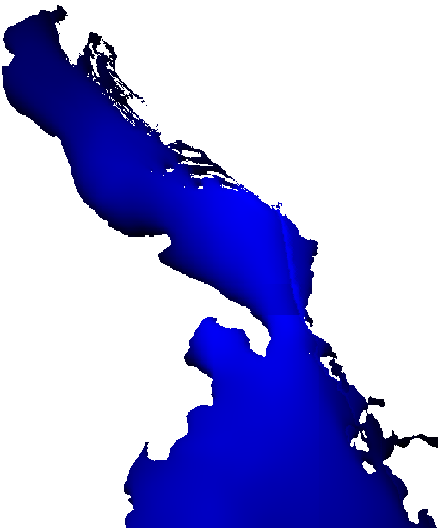
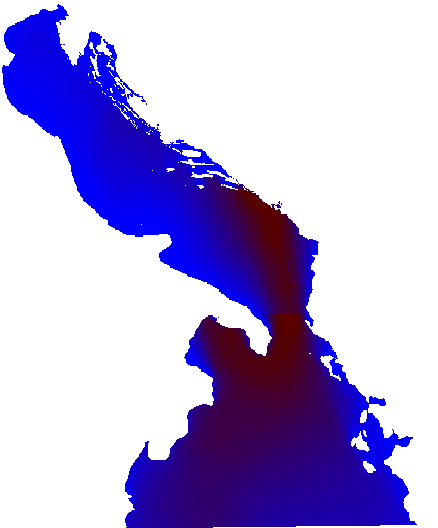
test background

diff --git a/istorm/app/components/Map/WindGLLayer.js b/istorm/app/components/Map/WindGLLayer.js
@@ -73,7 +73,7 @@ class WindLayer {
   calcNumParticles(width, height) {
     // console.log('calcNumParticles')
     return Math.min(Math.floor(width / 20 * height / 20),
-      1200
+      1500
     );
   }
 
@@ -123,37 +123,40 @@ class WindGLLayer extends BaseControl {
       this._canvas = canvas;
       this._ctx = canvas.getContext('webgl', {antialiasing: false});
     }
-      // map.addLayer({
-      //   'id': 'bgwaves',
-      //   'type': 'raster',
-      //   'source': {
-      //     type: 'image',
-      //     url: blu,
-      //     coordinates: [
-      //       [
-      //         12.21,
-      //         45.85
-      //       ],
-      //       [
-      //         22.37,
-      //         45.85
-      //       ],
-      //       [
-      //         22.37,
-      //         36.67,
-      //       ],
-      //       [
-      //         12.21,
-      //         36.67,
-      //       ]
-      //     ]
-      //   },
-      //   "paint": {
-      //       "raster-opacity": 0.5,
-      //       'raster-hue-rotate': 0,
-      //       "raster-resampling": "nearest"
-      //   }
-      // });
+    const bgLayer = {
+        'id': 'bgwaves',
+        'type': 'raster',
+        'source': {
+          type: 'image',
+          url: blu,
+          coordinates: [
+            [
+              12.21,
+              45.85
+            ],
+            [
+              22.37,
+              45.85
+            ],
+            [
+              22.37,
+              36.67,
+            ],
+            [
+              12.21,
+              36.67,
+            ]
+          ]
+        },
+        "paint": {
+            // "raster-opacity": 0.5,
+            "raster-opacity": 0.8,
+            // 'raster-hue-rotate': 0,
+            'raster-hue-rotate': 0.2,
+            // "raster-resampling": "nearest"
+        }
+      }
+      map.addLayer(bgLayer);
       if (this._ctx && this._ctx instanceof WebGLRenderingContext) {
         map.addLayer(new WindLayer(layer.id, this._ctx, layerInfo.wave_image, layerInfo.wave_metadata));
       } else {

diff --git a/openistorm/layers/utils.py b/openistorm/layers/utils.py
@@ -14,6 +14,12 @@ from dateutil import parser
 from django.conf import settings
 from .models import ImageLayer
 
+# import numpy as np
+# from numpy import array
+# import matplotlib.pyplot as plt
+# import random
+# # matplotlib-2.2.4
+
 
 class NCToImg:
 
@@ -183,10 +189,10 @@ class NCToImg:
                 os.system("rm " + tif2filename)
                 os.system("chmod -R 777 " + settings.LAYERDATA_ROOT)
 
+    def gaussian(self, x, a, b, c, d=0):
+        return a * math.exp(-(x - b) ** 2 / (2 * c ** 2)) + d
+
     def generate_image_and_meta_from_json(self, input_file, output_name):
-        # print(output_name)
-        # input_file = self.input_file
-        # output_name = self.output_name
 
         with open(input_file) as json_file:
             data = json.load(json_file)
@@ -204,24 +210,57 @@ class NCToImg:
         width, height = u['header']['nx'], u['header']['ny']
 
         pngData = []
+        pngDataBackground = []
         for y in range(0, height):
             for x in range(0, width):
                 k = (y * width) + x
                 if u['data'][k] is not None and v['data'][k] is not None:
-                    pngData.append((
+                    p = (
                         int(255 * (u['data'][k] - u['min']) / (u['max'] - u['min'])),
                         int(255 * (v['data'][k] - v['min']) / (v['max'] - v['min'])),
                         0,
                         255,
-                    ))
+                    )
+                    pngData.append(p)
+
+                    p = (
+                        int( 255 * 0.39 * (v['data'][k]**2 - v['min']**2) / (v['max']**2 - v['min']**2) ),
+                        0,
+                        255 - int( 255 * 1.2 * (v['data'][k]**2 - v['min']**2) / (v['max']**2 - v['min']**2) ),
+                        255,
+                    )
+                    pngDataBackground.append(p)
                 else:
                     pngData.append((255, 255, 255, 0))
+                    pngDataBackground.append((255, 255, 255, 0))
 
-        pngData = tuple(pngData)
+
+                #     # Generate a list of 5000 int between 1200,5500
+                #     M = 5000
+                #     myList = [random.randrange(1200, 5500) for i in xrange(0, M)]
+                #
+                #     # Convert to 50 x 100 list
+                #     n = 50
+                #     newList = [myList[i:i + n] for i in range(0, len(myList), n)]
+                #
+                #     # Convert to 50 x 100 numpy array
+                #     nArray = array(newList)
+                #     print nArray
+                #
+                #     a11 = nArray.reshape(50, 100)
+                #     plt.imshow(a11, cmap='hot')
+                #     plt.colorbar()
+                #     plt.show()
+
+        # pngData = tuple(pngData)
 
         image = Image.new('RGBA', (width, height))
         image.putdata(pngData)
         image.save(output_name + ".png", "PNG")
+
+        imageBackground = Image.new('RGBA', (width, height))
+        imageBackground.putdata(pngDataBackground)
+        imageBackground.save(output_name + "_bg.png", "PNG")
 
         json_data = {
             "source": "https://iws.ismar.cnr.it/",

diff --git a/openistorm/layers/views.py b/openistorm/layers/views.py
@@ -23,8 +23,8 @@ class ImageLayerList(ListAPIView):
         qs = super(ImageLayerList, self).get_queryset()
         dataset = self.request.query_params.get('dataset', 'waves')
         # TODO: sistemare quaNDO AVREMO UN SERVIZIO FUNZIONANTE
-        fromdate = '2018-10-28T23:00:00.000Z'
-        # fromdate = self.request.query_params.get('from', '')
+        # fromdate = '2018-10-28T23:00:00.000Z'
+        fromdate = self.request.query_params.get('from', '')
         todate = self.request.query_params.get('to', '')
 
         fromdate = parser.parse(fromdate) if fromdate != '' else datetime.datetime.now()

diff --git a/openistorm/layers/models.py b/openistorm/layers/models.py
@@ -17,6 +17,10 @@ class ImageLayer(models.Model):
         return self.url_prefix() + '.png'
 
     @property
+    def image_background(self):
+        return self.url_prefix() + '_bg.png'
+
+    @property
     def metadata(self):
         return self.url_prefix() + '.json'
 
